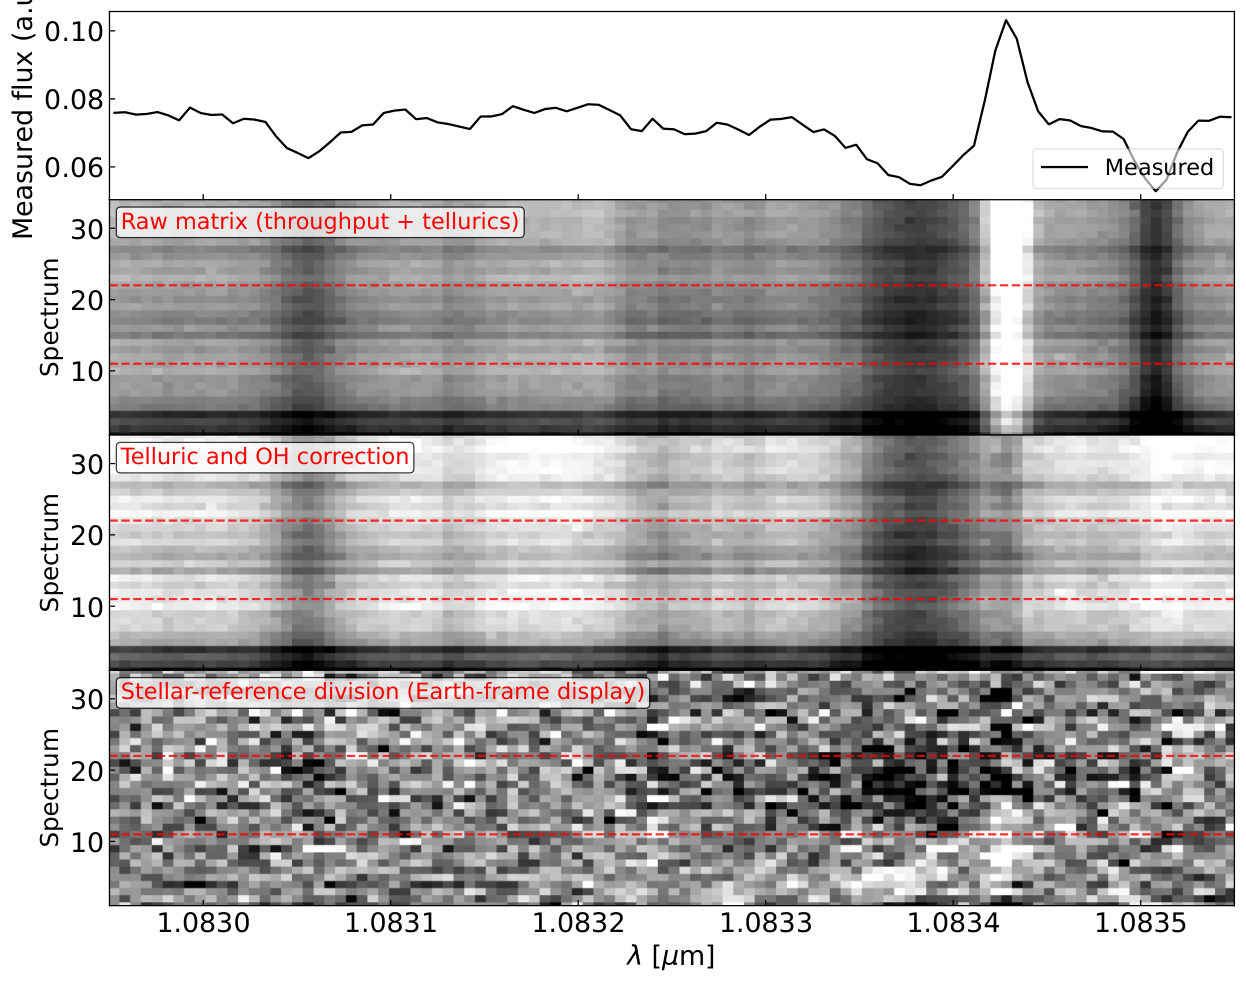
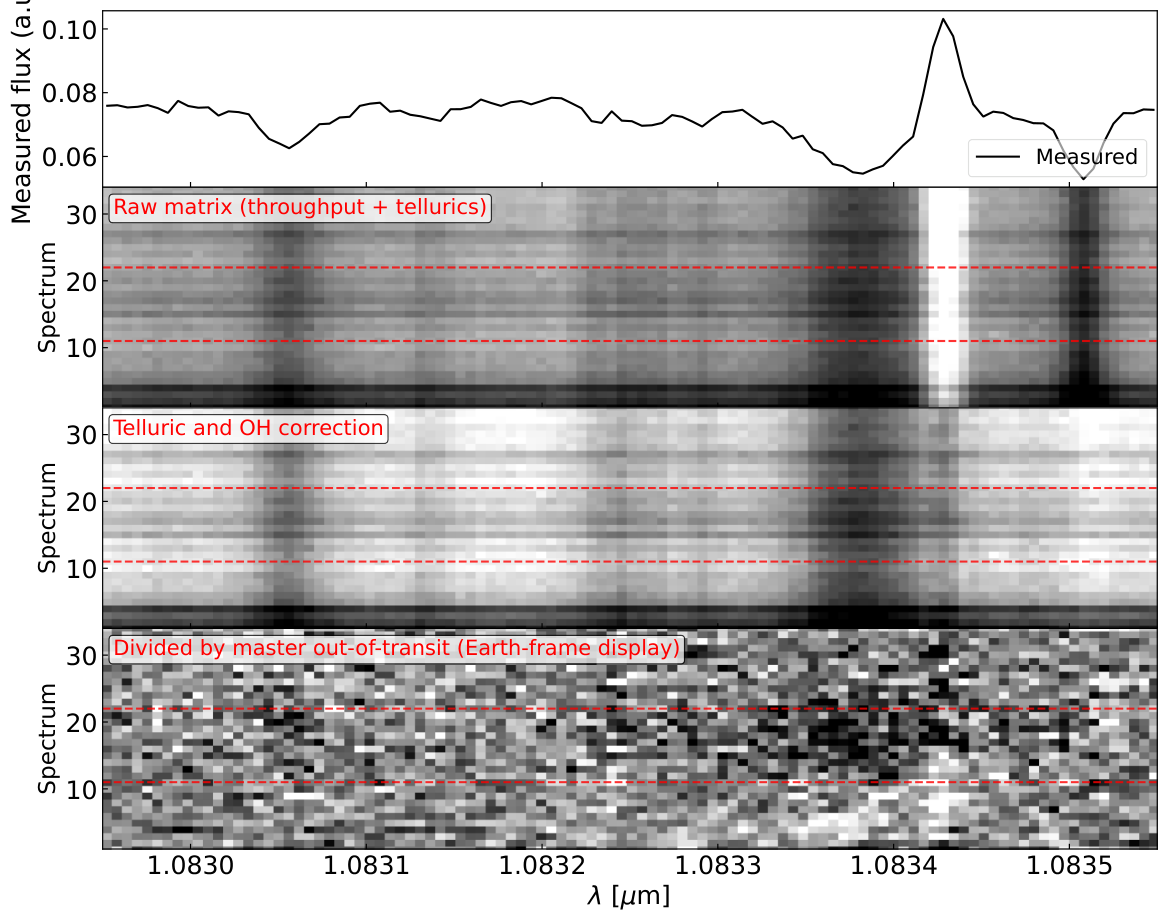
improve He tutorial

diff --git a/src/exoplore/pipelines/palle2020.py b/src/exoplore/pipelines/palle2020.py
@@ -290,8 +290,8 @@ def run_palle2020(config, *, pilot: bool=False, pilot_label: str='pilot') -> Pat
         night['flux'][:,order],night['flux'][:,order],display,
         order_label=science.order_segment,xlim_1d=tuple(np.array(science.plot_stellar_window_nm)/1000),
         sysrem_stages={stage:corrected_display,
-                       'Stellar-reference division (Earth-frame display)':display},
-        sysrem_iters=[stage,'Stellar-reference division (Earth-frame display)'],
+                       'Divided by master out-of-transit (Earth-frame display)':display},
+        sysrem_iters=[stage,'Divided by master out-of-transit (Earth-frame display)'],
         use_real_data=True,save_plot=True,show_plot=False)
     with (output/'summary.json').open('x') as stream:
         json.dump(dict(pipeline='Palle2020',reference='https://doi.org/10.1051/0004-6361/202037719',

diff --git a/scripts/plot_carmenes_palle2020.py b/scripts/plot_carmenes_palle2020.py
@@ -132,7 +132,7 @@ def steps(directory,output_directory,cfg,science):
         for w,f,e in zip(obs['wave_nm'],obs['corrected_flux'],obs['corrected_error'])])
     output_directory.mkdir(exist_ok=False)
     title='Telluric and OH correction'
-    final='Stellar-reference division (Earth-frame display)'
+    final='Divided by master out-of-transit (Earth-frame display)'
     plot_pipeline_steps(f'{cfg.planet.name}_Palle2020',str(output_directory)+'/',native/1000,
         data['phase'],data['with_signal'],data['without_signal'],
         np.flatnonzero(np.isfinite(residual).any(axis=0)),obs['raw_flux'],obs['raw_flux'],residual,

diff --git a/docs/tutorial.md b/docs/tutorial.md
@@ -1473,7 +1473,9 @@ Molecfit correction in three water-line intervals of the first GJ 3470 b exposur
 
 The OH model follows the profile prescription of Pallé et al. (2020): a Voigt profile for the strong line and two Gaussians sharing width and amplitude for the weak pair. Fibre B determines the profiles and their changing strength throughout the night. The sky model is then expressed in fibre-A flux units and subtracted.
 
-Pallé et al. (2020) used matched extractions for both fibres and measured an A/B factor of 0.88. The files used here have different extraction conventions, so `fiber_b_calibrated` determines their transfer from the strong OH line in out-of-transit fibre A. The available choices are:
+Pallé et al. (2020) used matched extractions for both fibres and measured an A/B factor of 0.88. The first step in assessing the OH correction should be to check whether fibre A and fibre B have been extracted consistently. For this tutorial, we do not have fibre-A spectra extracted in the same way as fibre B. If these products are available for your observations, EXoPLORE provides `fiber_b_matched_extraction`, together with the A/B scaling factor supplied in `oh_fit.fiber_b_scale`. This factor should be determined for your observations.
+
+With the files available here, `fiber_b_calibrated` determines the transfer between fibres from the strong OH line in out-of-transit fibre A. The available choices are:
 
 | `oh_treatment` | What EXoPLORE does |
 |---|---|
@@ -1518,7 +1520,9 @@ Following Pallé et al. (2020), each corrected spectrum is normalized by its mea
 \mathcal{T}(\lambda,t)=\frac{F(\lambda,t)}{F_{\mathrm{out}}(\lambda)}.
 ```
 
-The residual spectra are shifted into the planetary frame and averaged between T2 and T3. This aligns the planetary helium absorption before averaging. The example's automatic timing selects 12 in-transit and 22 out-of-transit exposures, with 10 between T2 and T3. Pallé et al. (2020) report 14 and 20 for their adopted timing. Exposure numbers are not entered in the JSON.
+As always, we encourage careful visual inspection of each step to identify where the results can be improved. This is an example calculation.
+
+The residual spectra are shifted into the planetary frame and averaged between T2 and T3. This aligns the planetary helium absorption before averaging. The example's automatic timing selects 12 in-transit and 22 out-of-transit exposures, with 10 between T2 and T3.
 
 The standard EXoPLORE pipeline-stages figure is produced by the run. We can also recreate it from saved products:
 
@@ -1547,7 +1551,7 @@ GJ 3470 b helium transmission. Top: stellar-frame residual map, with absorption 
 
 The absorption in the 0.40 Å band is approximately 1.3%, comparable to the 1.5 ± 0.3% reported by Pallé et al. (2020). Their Fig. 5 uses a three-point running mean; the standard EXoPLORE result above shows the individual spectral pixels. The band-averaged light curve follows the helium signal through transit. Negative transmission excess means absorption relative to the stellar reference.
 
-The strong OH line overlaps the red wing as the planetary spectrum moves through the night. Its subtraction therefore affects the recovered shape. The shaded errors propagate extraction noise and conditional sky-amplitude uncertainty; shared OH-profile and calibration uncertainties are additional contributions.
+The strong OH line overlaps the red wing as the planetary spectrum moves through the night. Its subtraction therefore affects the recovered shape. The shaded errors include extraction noise and uncertainty in the fitted OH intensity for each exposure. The OH line shape and the calibration between fibres are kept fixed when calculating these errors.
 
 The saved result can be plotted with:
 
@@ -1558,11 +1562,13 @@ python scripts/plot_carmenes_palle2020.py transmission \
   helium_transmission.png
 ```
 
-### Step 6: Compare the OH profile choices
+### Step 6: Assess the effect of OH subtraction
 
-The {download}`OOT-profile JSON <../configs/gj3470b_carmenes_palle2020_oot_tutorial.json>` selects `fiber_a_oot_profile` and writes a separate `night_oot_profile` directory. This option fits a common stellar spectrum in the stellar frame together with OH emission in the Earth frame, using only out-of-transit fibre A for the calibration. Fibre B supplies the sky strength at every exposure, including during transit. The weak OH pair retains its calibrated fibre-B profile.
+The OH emission overlaps the red wing of the planetary helium line. With consistently extracted A/B spectra unavailable for this tutorial, we can now assess how its subtraction affects the recovered spectrum by repeating the analysis with a different estimate of the OH profile. We compare the line shape and the absorption in the same wavelength band to see how sensitive our measurements are to this choice.
 
-The alternative run uses:
+In the calculation above, the OH profile is measured in fibre B and calibrated against fibre A. For this comparison, we instead fit the strong OH profile directly in the out-of-transit fibre-A spectra, together with a common stellar spectrum. The stellar spectrum is aligned in the stellar frame and the OH emission in the Earth frame. Fibre B still supplies the OH intensity for every exposure, including during transit. The weak OH pair retains the previous correction.
+
+We can follow this comparison using the {download}`alternative OH configuration <../configs/gj3470b_carmenes_palle2020_oot_tutorial.json>`. It selects `fiber_a_oot_profile` and saves the result in a separate `night_oot_profile` directory:
 
 ```bash
 python -u scripts/run_exoplore.py \
